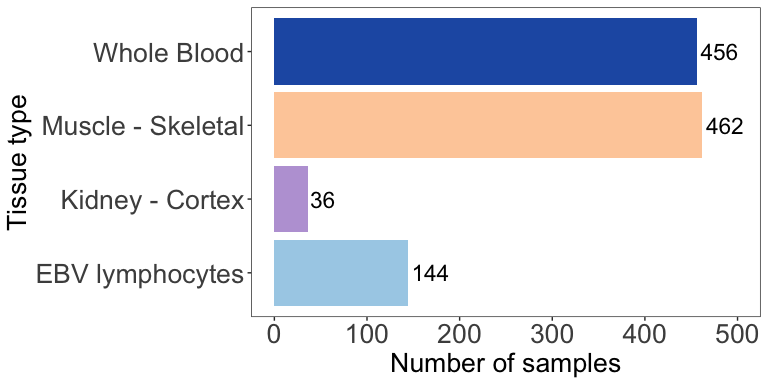
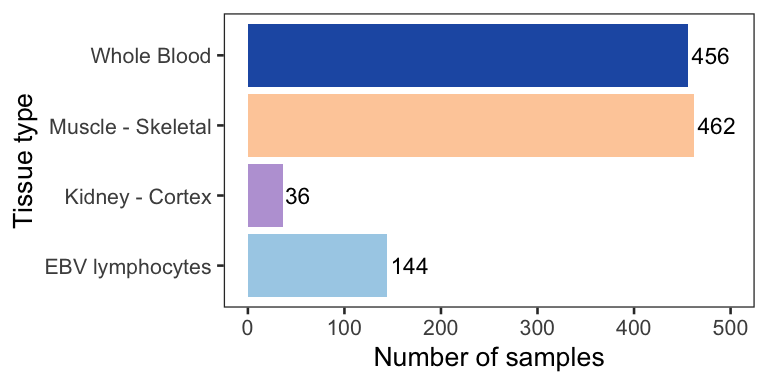
add markdown and updated plots

Changed region(s): [[0.0, 0.0312, 1.0, 0.9688]]

diff --git a/notebooks/compendium_summary/compendium_v1_summary.md b/notebooks/compendium_summary/compendium_v1_summary.md
@@ -1,6 +1,6 @@
 # Summary of samples on splice compendium v1
 Cindy Liang (celiang@ucsc.edu)
-2026-08-11
+2026-08-12
 
 ## Introduction
 
@@ -683,7 +683,8 @@ ggplot(cleaned_target_df, aes(y = plot_tissue_type, fill = plot_tissue_type)) +
     vjust = 0.5,
     size = global_size - 14
     ) +
-  scale_fill_manual(values = tissue_palette)
+  scale_fill_manual(values = tissue_palette) +
+  theme(legend.position = "none")
 ```
 
 <div id="fig-target_sample_dist_bar">
@@ -718,7 +719,9 @@ ggplot(for_summary_gtex_df, aes(y = plot_tissue_type, fill = plot_tissue_type)) 
     vjust = 0.5,
     size = global_size - 14
   ) +
-  scale_fill_manual(values = tissue_palette)
+  scale_fill_manual(values = tissue_palette) +
+  # remove legend
+  theme(legend.position = "none")
 ```
 
 <div id="fig-gtex_sample_dist_bar">
